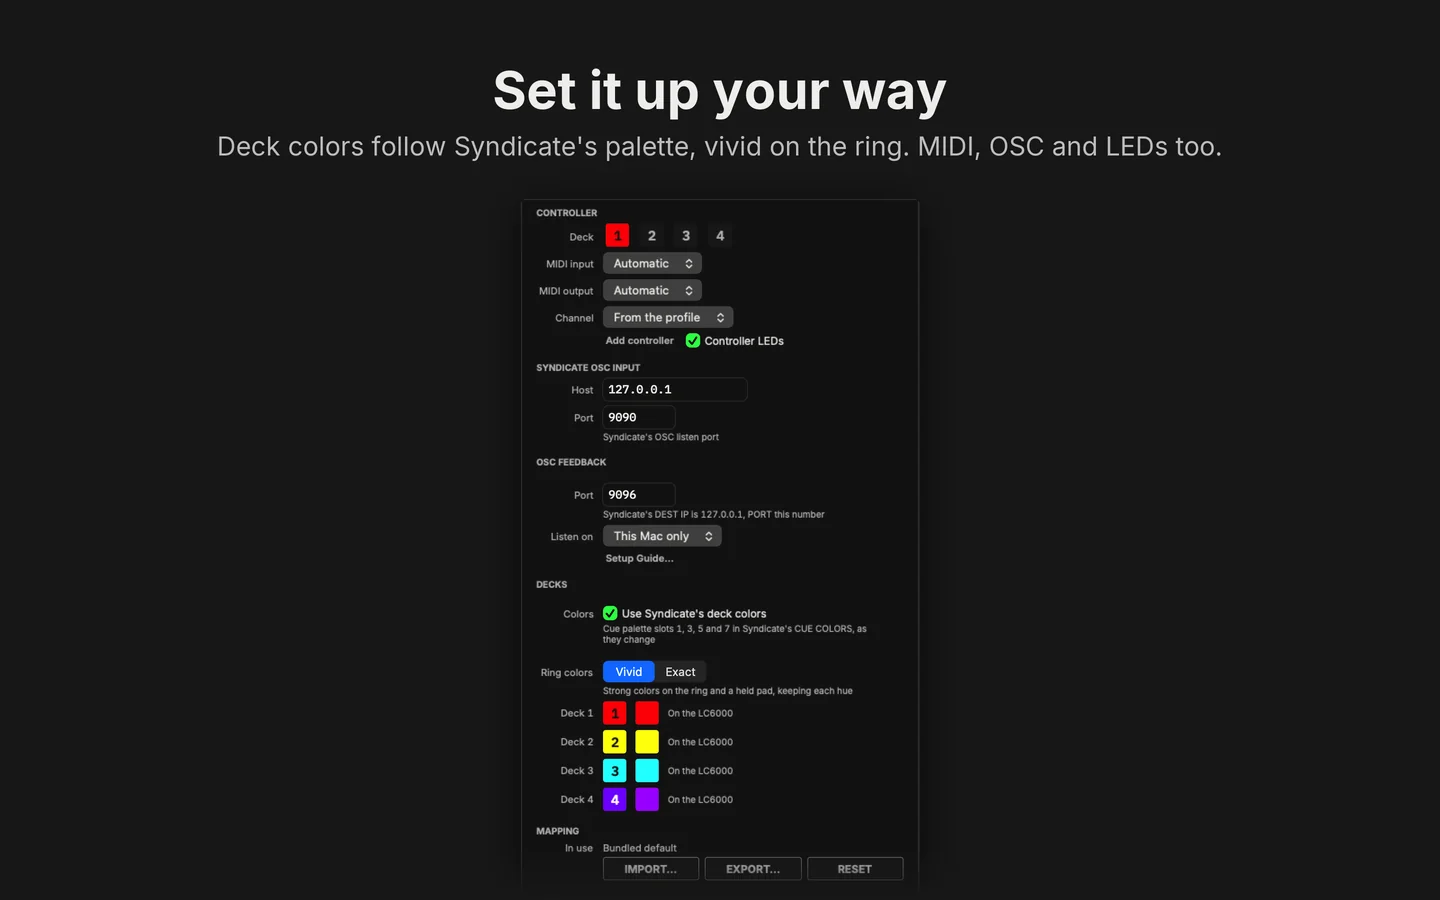
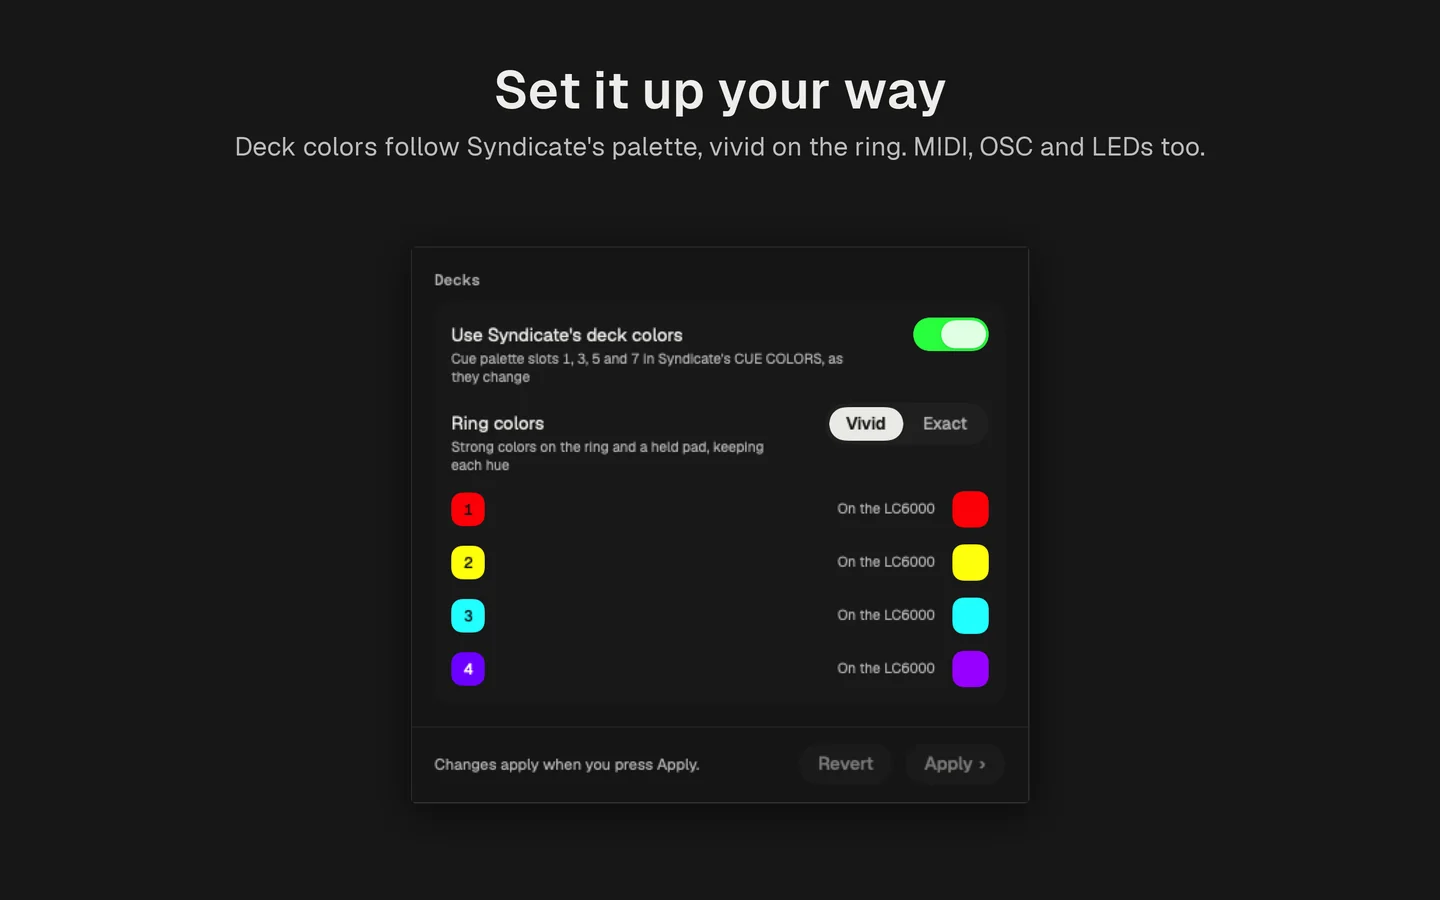
Website: 5-settings re-rendered from the redesigned app (pr-assets 1a71dee, the Decks pane after #176); its crop noted for when a page uses it (#171)
Claude-Session: https://claude.ai/code/session_01VCgWWsrZ4EvHNNNTAe7RC1

diff --git a/website/site.css b/website/site.css
@@ -8,7 +8,7 @@
 .nav__logo img, .footer__mark img { width: 28px; height: 28px; margin-right: var(--s-2); border-radius: 7px; }
 
 /* ---------------------------------------------------------------- the app, as the real screenshots show it
-   Each picture is one of img/*.webp (pr-assets 6d5a5bb; 5-settings still ff60571), cropped to its window by CSS; the files stay whole.
+   Each picture is one of img/*.webp (pr-assets 6d5a5bb; 5-settings 1a71dee, on no page yet: its crop is --sw: 622; --sh: 560; --sx: 409; --sy: 245), cropped to its window by CSS; the files stay whole.
    --sw/--sh the window's size and --sx/--sy its corner, in the 1440x900 screenshot's pixels. */
 .db-crop { position: relative; display: block; overflow: hidden; aspect-ratio: var(--sw) / var(--sh); border-radius: 10px;
   box-shadow: 0 0 0 1px rgb(255 255 255 / .1), 0 30px 70px -30px rgb(0 0 0 / .8); background: #171717; }
